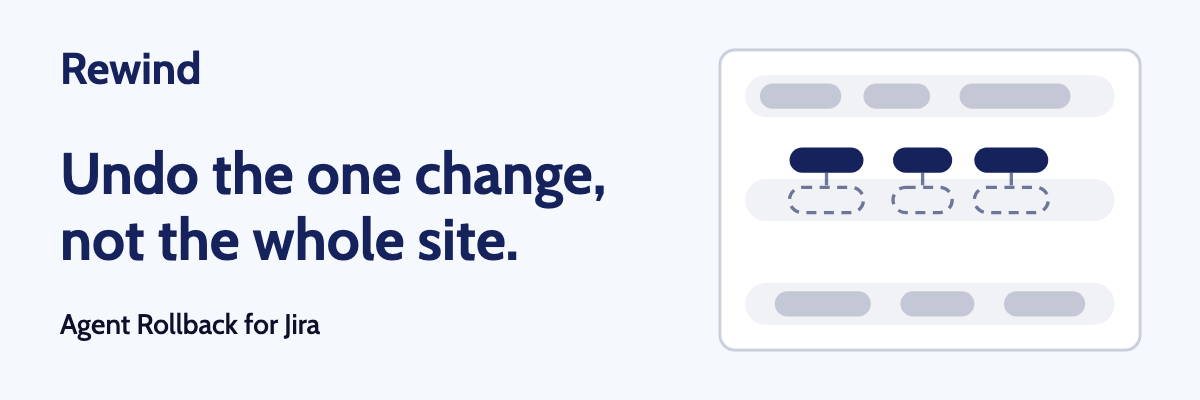
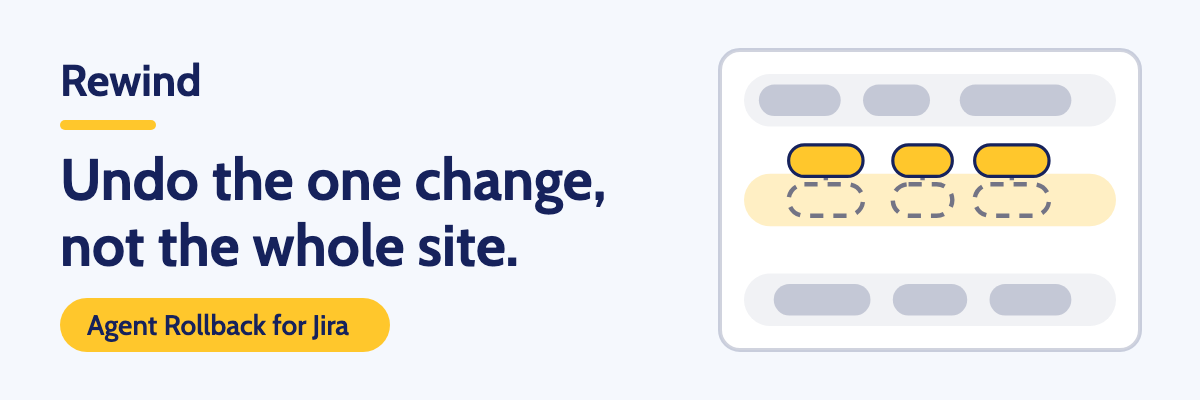
Re-render visuals in Rewind yellow and navy with customer-word headlines
- brand.md: primary is a warm yellow (hex unconfirmed), secondary dark navy
- Yellow is the accent in every visual; navy carries the type
- LinkedIn headline now "Undo one agent's changes, not the whole site." (no internal term "actor")
- Design rule: headlines use the customer's words
- Reviewer re-check of all four visuals appended to 11-review.md

diff --git a/outputs/agent-rollback-jira/08-design-briefs.md b/outputs/agent-rollback-jira/08-design-briefs.md
@@ -3,13 +3,18 @@
 **Produced for this tier:** email header, in-app banner, LinkedIn image, one-pager layout.
 **Deliberately skipped:** blog hero image (Tier 1 only).
 **Source copy:** 07-channel-copy.md, section "On-image text". Text is copied unchanged, nothing cut or added.
-**Style note:** Brand from `context/brand.md`. Wordmark set in type, not the official logo file. [NEED PROOF: confirm brand palette and typeface with Rewind's brand team] The Boomerang yellow is not used because its hex is unknown. No visual leaves the team until the brand team confirms.
+**Style note:** Brand from `context/brand.md`. Wordmark set in type, not the official logo file. [NEED PROOF: confirm brand palette and typeface with Rewind's brand team] [NEED PROOF: confirm Boomerang yellow hex and navy with Rewind's brand team] No visual leaves the team until the brand team confirms.
 
-**Shared visual idea (all four):** a white schematic card with three lanes. The middle lane is the one actor. Its solid Blue Zodiac blocks lift out of the lane, leaving dashed outlines in place. The other lanes, in 20% tints of Blue Zodiac, stay untouched. No text, counts or ticket numbers inside the card. The actor is neutral, not a villain.
+**Palette used:** Boomerang Yellow #FFC72C (primary, UNCONFIRMED), Blue Zodiac #16225C (secondary, navy), Link Water #F5F8FD (canvas), Ebony #0E102B (body text), White #FFFFFF (cards). Tints of navy and yellow for schematic shapes only.
+**Accent rule applied:** yellow is the accent in all four visuals: the lifted blocks, the highlight bar under the wordmark, the middle lane tint, and the supporting-line pill or bar. Navy carries the headline and the "Rewind" wordmark on the light canvas. No text is set in yellow. Text on yellow fills is navy.
+
+**Shared visual idea (all four):** a white schematic card with three lanes. The middle lane is one agent or rule (a neutral actor among others). Its yellow blocks, outlined in navy, lift out of a pale yellow lane and leave dashed outlines in place. The other two lanes, in navy tints, stay untouched. No text, counts or ticket numbers inside the card. Nothing frames the agent as a villain.
+
+**Internal-term check on all on-image text:** no internal terms found ("actor", "blast radius", "selective rollback" do not appear). The LinkedIn headline now says "agent's changes". "Agent Rollback for Jira" is the product name and is kept as written in 07. Note for the copy owner: 07's email preview line still says "Undo one actor's changes", and the email body and release note use "actor". These are not on-image, so I did not change them, but they are internal terms in customer copy.
 
 **Font:** Cabin loaded through a Google Fonts `@import` in each SVG, with the brand fallback stack. Confirmed by viewing every PNG: the glyphs are Cabin, not the fallback. The SVG needs internet access to show Cabin when opened elsewhere. The PNGs are fixed.
 
-**Tool for all four:** headless Google Chrome, 1x scale.
+**Tool for all four:** headless Google Chrome, 1x scale. All four PNGs viewed after the final render.
 
 ## Email header
 **Size:** 1200 x 400 px
@@ -19,17 +24,17 @@
 > Undo the one change, not the whole site.
 > Agent Rollback for Jira
 
-**Layout:** wordmark top left (44 px); headline two lines at 58 px, left; supporting line 28 px below; schematic card right (420 x 300).
+**Layout:** wordmark top left (44 px) with a short yellow bar below; headline two lines at 58 px; yellow pill with the supporting line (28 px, navy text) below; schematic card right (420 x 300).
 **Visual direction:** Link Water canvas, one idea, generous space. Legible at half size (headline reads about 29 px).
-**Brand applied:** #F5F8FD canvas, #16225C wordmark and headline, #0E102B supporting line, #FFFFFF card, Blue Zodiac tints for shapes. Cabin 700 headline and wordmark, Cabin 500 supporting line. Wordmark set in type, not the official logo file.
-**Avoid:** limitations, plan names, "only" claims, alarms, robots, any vendor logo, the Boomerang mark.
+**Brand applied:** #F5F8FD canvas, #16225C wordmark and headline, #FFC72C accent (bar, pill, lifted blocks, lane tint at 28%), #16225C text on the yellow pill, #FFFFFF card, navy tints for other shapes. Cabin 700 headline and wordmark, Cabin 600 pill text. Wordmark set in type, not the official logo file.
+**Avoid:** limitations, plan names, "only" claims, alarms, robots, any vendor logo, the Boomerang mark, yellow text.
 **Does not claim:** Jira Cloud only, changes after the first backup, issues and fields only, the attachment limit, plan tier. These stay in the email.
 
 **Prompt (paste into Claude Design or Canva):**
 ```
-Email header, 1200 x 400 px. Light background #F5F8FD. Top left, the word "Rewind" as live text in Cabin 700, #16225C, 44 px, with clear space. Not a logo. Headline in two lines, Cabin 700, #16225C, 58 px: "Undo the one change, not the whole site." Below it, Cabin 500, #0E102B, 28 px: "Agent Rollback for Jira". Right side: a white rounded card with three horizontal lanes. Outer lanes hold pale blocks (#16225C at 20%). The middle lane's three blocks are solid #16225C and lifted above the lane, joined by thin lines to dashed outlines left in place. No text in the card. No other text, no logos, no robots, no alarms, no yellow.
+Email header, 1200 x 400 px. Light background #F5F8FD. Top left, the word "Rewind" as live text in Cabin 700, #16225C, 44 px, with clear space. Not a logo. Under it a short rounded bar in #FFC72C. Headline in two lines, Cabin 700, #16225C, 58 px: "Undo the one change, not the whole site." Below it a #FFC72C pill with text in Cabin 600, #16225C, 28 px: "Agent Rollback for Jira". Right side: a white rounded card with three horizontal lanes. Outer lanes hold pale blocks (#16225C at 20%). The middle lane is a pale #FFC72C tint; its three blocks are solid #FFC72C with a thin #16225C outline, lifted above the lane and joined by thin lines to dashed outlines left in place. No text in the card. No other text, no logos, no robots, no alarms, no yellow text.
 ```
-**Render:** `visuals/email-header.svg`, `visuals/email-header.png` | Tool: headless Chrome | Size check: 1200 x 400, match yes | Visual check: Cabin renders, nothing clipped or overlapping, margins at least 60 px.
+**Render:** `visuals/email-header.svg`, `visuals/email-header.png` | Tool: headless Chrome | Size check: 1200 x 400, match yes | Visual check: Cabin renders, nothing clipped or overlapping, margins at least 60 px, navy on yellow and navy on Link Water pass contrast.
 
 ---
 
@@ -41,17 +46,17 @@ Email header, 1200 x 400 px. Light background #F5F8FD. Top left, the word "Rewin
 > Undo what one rule or AI agent changed.
 > See the effect first.
 
-**Layout:** wordmark top left (40 px); headline two lines at 50 px; supporting line 26 px; schematic card right (420 x 260).
-**Visual direction:** same schematic, headline only, calm and compact.
-**Brand applied:** #F5F8FD canvas, #16225C wordmark and headline, #0E102B supporting line, #FFFFFF card, tints of #16225C. Cabin 700 / 500. Wordmark set in type, not the official logo file.
-**Avoid:** limitations, attachment note, plan tier, alarms, robots, vendor logos, the Boomerang mark.
+**Layout:** wordmark top left (40 px) with a short yellow bar; headline two lines at 50 px; yellow pill with the supporting line (26 px) below; schematic card right (420 x 260).
+**Visual direction:** same schematic, compact and calm. The pill sits where a button would, but it is text from 07, not a button label.
+**Brand applied:** #F5F8FD canvas, #16225C wordmark, headline and pill text, #FFC72C accent, #FFFFFF card, navy tints. Cabin 700 / 600. Wordmark set in type, not the official logo file.
+**Avoid:** limitations, attachment note, plan tier, alarms, robots, vendor logos, the Boomerang mark, yellow text.
 **Does not claim:** the Jira Cloud, first-backup, 24-hour attachment and plan-tier limits in the in-app body copy.
 
 **Prompt (paste into Claude Design or Canva):**
 ```
-In-app banner, 1280 x 320 px. Background #F5F8FD. Top left, "Rewind" as live text, Cabin 700, #16225C, 40 px. Headline, two lines, Cabin 700, #16225C, 50 px: "Undo what one rule or AI agent changed." Below, Cabin 500, #0E102B, 26 px: "See the effect first." Right: white rounded card with three lanes; outer lanes pale blocks (#16225C at 20%); middle lane's solid #16225C blocks lifted out, dashed outlines left behind. No text in the card. No other text or logos.
+In-app banner, 1280 x 320 px. Background #F5F8FD. Top left, "Rewind" as live text, Cabin 700, #16225C, 40 px. Short rounded bar under it in #FFC72C. Headline, two lines, Cabin 700, #16225C, 50 px: "Undo what one rule or AI agent changed." Below, a #FFC72C pill with Cabin 600, #16225C, 26 px text: "See the effect first." Right: white rounded card with three lanes; outer lanes pale blocks (#16225C at 20%); middle lane a pale #FFC72C tint whose solid #FFC72C blocks (thin #16225C outline) lift out, dashed outlines left behind. No text in the card. No other text or logos.
 ```
-**Render:** `visuals/in-app-banner.svg`, `visuals/in-app-banner.png` | Tool: headless Chrome | Size check: 1280 x 320, match yes | Visual check: Cabin renders, nothing clipped.
+**Render:** `visuals/in-app-banner.svg`, `visuals/in-app-banner.png` | Tool: headless Chrome | Size check: 1280 x 320, match yes | Visual check: Cabin renders, nothing clipped, pill clear of headline descenders.
 
 ---
 
@@ -60,40 +65,40 @@ In-app banner, 1280 x 320 px. Background #F5F8FD. Top left, "Rewind" as live tex
 **Used with:** LinkedIn post (the post carries the limits)
 **On-image text** (17 words, from 07 "LinkedIn image"):
 > Rewind
-> Undo the one actor, not the whole site.
+> Undo one agent's changes, not the whole site.
 > See what will change back before you restore.
 
-**Layout:** 60 px safe margin. Wordmark top left (44 px); headline two lines at 64 px; supporting line two lines at 30 px; schematic card right (420 x 400).
+**Layout:** 60 px safe margin. Wordmark top left (44 px) with a yellow bar; headline three lines at 62 px; supporting line two lines at 30 px with a yellow vertical bar to its left; schematic card right (420 x 400).
 **Visual direction:** same schematic, larger card. Does not repeat the post text.
-**Brand applied:** #F5F8FD, #16225C, #0E102B, #FFFFFF, tints of #16225C. Cabin 700 / 500. Wordmark set in type, not the official logo file.
-**Avoid:** limitations, disclaimers, plan names, alarms, robots, people at screens, vendor logos, the Boomerang mark.
+**Brand applied:** #F5F8FD canvas, #16225C wordmark and headline, #0E102B supporting line, #FFC72C accent, #FFFFFF card, navy tints. Cabin 700 / 500. Wordmark set in type, not the official logo file.
+**Avoid:** limitations, disclaimers, plan names, alarms, robots, people at screens, vendor logos, the Boomerang mark, yellow text.
 **Does not claim:** Jira Cloud, first-backup, issues and fields, attachment 24-hour and plan-tier limits stated in the post.
 
 **Prompt (paste into Claude Design or Canva):**
 ```
-LinkedIn image, 1200 x 627 px, 60 px safe margin. Background #F5F8FD. Top left "Rewind" as live text, Cabin 700, #16225C, 44 px. Headline, two lines, Cabin 700, #16225C, 64 px: "Undo the one actor, not the whole site." Supporting line, Cabin 500, #0E102B, 30 px: "See what will change back before you restore." Right: white rounded card, three lanes, outer lanes pale (#16225C at 20%), middle lane's solid #16225C blocks lifted out with dashed outlines left behind. No text in the card, no other text, no logos.
+LinkedIn image, 1200 x 627 px, 60 px safe margin. Background #F5F8FD. Top left "Rewind" as live text, Cabin 700, #16225C, 44 px, with a short #FFC72C bar below. Headline, three lines, Cabin 700, #16225C, 62 px: "Undo one agent's changes, not the whole site." Supporting line, Cabin 500, #0E102B, 30 px, with a #FFC72C vertical bar to its left: "See what will change back before you restore." Right: white rounded card, three lanes, outer lanes pale (#16225C at 20%), middle lane a pale #FFC72C tint with solid #FFC72C blocks (thin #16225C outline) lifted out and dashed outlines left behind. No text in the card, no other text, no logos.
 ```
-**Render:** `visuals/linkedin-image.svg`, `visuals/linkedin-image.png` | Tool: headless Chrome | Size check: 1200 x 627, match yes | Visual check: Cabin renders, inside safe margin, nothing clipped.
+**Render:** `visuals/linkedin-image.svg`, `visuals/linkedin-image.png` | Tool: headless Chrome | Size check: 1200 x 627, match yes | Visual check: Cabin renders, apostrophe renders, inside safe margin, nothing clipped.
 
 ---
 
 ## One-pager layout
 **Size:** 2550 x 3300 px
 **Used with:** One-pager in 09-sales-enablement.md
-**On-image text** (about 29 words including the wordmark, from 07 "One-pager layout"):
+**On-image text** (28 words including the wordmark, from 07 "One-pager layout"):
 > Rewind
 > Undo what one rule or AI agent changed.
 > See what changes back first.
 > Jira Cloud. Changes after your first Rewind backup. Issues and fields. Specific plan tier.
 
-**Layout:** wordmark top left (84 px); headline two lines at 150 px; supporting line 64 px; wide schematic card (2250 x 620); four empty white body blocks in a 2 x 2 grid, each with one short tint bar and no text, to be filled from 09; thin rule and one small limits line (40 px) in the footer.
+**Layout:** wordmark top left (84 px) with a yellow bar; headline two lines at 150 px; yellow pill with the supporting line (64 px); wide schematic card (2250 x 620); four empty white body blocks in a 2 x 2 grid, each with one short yellow bar and no text, to be filled from 09; yellow footer rule and one small limits line (40 px).
 **Visual direction:** structure over decoration. The empty blocks stay empty.
-**Brand applied:** #F5F8FD, #16225C, #0E102B, #FFFFFF, tints of #16225C. Cabin 700 / 500 / 400. Wordmark set in type, not the official logo file.
-**Avoid:** extra text, lorem ipsum, beta numbers, quotes, customer names, alarms, robots, vendor logos, the Boomerang mark.
+**Brand applied:** #F5F8FD canvas, #16225C wordmark and headline and pill text, #0E102B limits line, #FFC72C accent, #FFFFFF cards, navy tints. Cabin 700 / 600 / 400. Wordmark set in type, not the official logo file.
+**Avoid:** extra text, lorem ipsum, beta numbers, quotes, customer names, alarms, robots, vendor logos, the Boomerang mark, yellow text.
 **Does not claim:** the attachment limit does not fit the one small line. It must be carried in the body blocks from 09. The image must not imply attachments are covered without it. [NEED PROOF: plain wording for the attachment limitation, including the 24-hour phrase]
 
 **Prompt (paste into Claude Design or Canva):**
 ```
-One-pager layout, US Letter 2550 x 3300 px. Background #F5F8FD. Top left "Rewind" as live text, Cabin 700, #16225C, 84 px. Headline, two lines, Cabin 700, #16225C, 150 px: "Undo what one rule or AI agent changed." Subhead Cabin 500, #0E102B, 64 px: "See what changes back first." Wide white card with the lifted-lane schematic (outer lanes #16225C at 20%, middle lane solid #16225C blocks lifted out, dashed outlines left behind), no text. Below, four empty white rounded blocks in a 2 x 2 grid with a thin outline, no text. Footer rule and one small line, Cabin 400, #0E102B, 40 px: "Jira Cloud. Changes after your first Rewind backup. Issues and fields. Specific plan tier." Nothing else.
+One-pager layout, US Letter 2550 x 3300 px. Background #F5F8FD. Top left "Rewind" as live text, Cabin 700, #16225C, 84 px, with a short #FFC72C bar below. Headline, two lines, Cabin 700, #16225C, 150 px: "Undo what one rule or AI agent changed." Subhead on a #FFC72C pill, Cabin 600, #16225C, 64 px: "See what changes back first." Wide white card with the lifted-lane schematic (outer lanes #16225C at 20%, middle lane a pale #FFC72C tint with solid #FFC72C blocks, thin #16225C outline, lifted out, dashed outlines left behind), no text. Below, four empty white rounded blocks in a 2 x 2 grid with a thin outline and a short #FFC72C bar at top left, no text. Footer: a #FFC72C rule and one small line, Cabin 400, #0E102B, 40 px: "Jira Cloud. Changes after your first Rewind backup. Issues and fields. Specific plan tier." Nothing else.
 ```
-**Render:** `visuals/one-pager-layout.svg`, `visuals/one-pager-layout.png` | Tool: headless Chrome | Size check: 2550 x 3300, match yes | Visual check: Cabin renders, lifted blocks no longer touch the top lane after one fix, nothing clipped.
+**Render:** `visuals/one-pager-layout.svg`, `visuals/one-pager-layout.png` | Tool: headless Chrome | Size check: 2550 x 3300, match yes | Visual check: Cabin renders, lifted blocks clear of the top lane, nothing clipped, body blocks empty.

diff --git a/context/brand.md b/context/brand.md
@@ -1,6 +1,6 @@
 # Brand: Rewind
 
-> Source and date: compiled 2026-10-16 from rewind.com and a third-party brand listing. See "Sources and confidence" below. The hex codes and typeface in this file are NOT confirmed by Rewind. Confirm them with Rewind's brand team before any visual goes outside the team.
+> Source and date: compiled 2026-10-16 from rewind.com and a third-party brand listing. Updated 2026-10-16 on the user's direction: primary brand colour is a warm yellow (as in the Boomerang logo), secondary is dark navy. See "Sources and confidence" below. The hex codes and typeface in this file are NOT confirmed by Rewind. Confirm them with Rewind's brand team before any visual goes outside the team.
 
 ## Sources and confidence
 | Item | Source | Confidence |
@@ -13,19 +13,21 @@
 Why the gap: rewind.com blocks scripted page readers (HTTP 403), and its `/brand/` page asks for a login (HTTP 401). Neither was worked around. Replace the low-confidence rows when someone with access pastes the real brand guide.
 
 ## Colours
-Use these as the Rewind palette until confirmed.
+Rewind's primary brand colour is a warm yellow, as in the Boomerang logo. Dark navy is the secondary. Use these as the Rewind palette until confirmed.
 
 | Role | Name | Hex | Use |
 |---|---|---|---|
-| Primary | Blue Zodiac | `#16225C` | Headlines, wordmark on light backgrounds, main accent shapes, buttons |
-| Secondary (light) | Link Water | `#F5F8FD` | Page and canvas backgrounds, light cards |
-| Secondary (dark) | Ebony | `#0E102B` | Body text, dark backgrounds, wordmark on dark if white is not used |
+| Primary | Boomerang Yellow | `#FFC72C` (UNCONFIRMED) | The accent in every visual: highlight bars, the lifted blocks, buttons, key shapes. Never body text on a light background. |
+| Secondary | Blue Zodiac (dark navy) | `#16225C` | Headlines, wordmark on light backgrounds, dark panels |
+| Neutral (light) | Link Water | `#F5F8FD` | Page and canvas backgrounds, light cards |
+| Neutral (dark) | Ebony | `#0E102B` | Body text, dark backgrounds |
 | Neutral | White | `#FFFFFF` | Wordmark on dark backgrounds, card fill |
 
 Rules:
-- No colour outside this table, except tints of Blue Zodiac for schematic shapes (for example 20% and 60% opacity).
-- The Boomerang mark is yellow, but its hex code is not available. Do not use yellow as a fill colour until it is confirmed `[NEED PROOF: Boomerang yellow hex]`.
-- Check contrast. Blue Zodiac on Link Water and white on Blue Zodiac both pass for headline sizes.
+- Yellow is the accent in every visual. Navy carries the type.
+- The yellow hex is a placeholder for "a warm yellow". Rewind's exact value was not available: `[NEED PROOF: confirm Boomerang yellow hex with Rewind's brand team]`. The navy and neutrals come from a third-party listing and are also unconfirmed.
+- No colour outside this table, except tints of navy or yellow for schematic shapes (for example 20% and 60% opacity).
+- Contrast: yellow on white or Link Water fails for text. Put text in navy or Ebony. Text on a yellow fill is navy or Ebony. Navy on Link Water and white on navy both pass for headline sizes.
 
 ## Typeface
 - **Cabin** (free, Google Fonts). Weights 400, 500, 600, 700. Unconfirmed, see above.
@@ -36,14 +38,14 @@ Rules:
 ## Wordmark
 - Rewind's logo file is not downloaded or embedded. Never draw or trace the logo or the Boomerang mark.
 - Where a visual needs the brand, set the word **Rewind** as live text in Cabin 700, in sentence case (capital R, rest lower case). No outline, shadow, gradient or effect.
-- Colour: Blue Zodiac `#16225C` on light backgrounds. White `#FFFFFF` on Blue Zodiac or Ebony. These mirror Rewind's approved logo colourways (full colour dark, full colour white). Do not use other colours.
+- Colour: navy (Blue Zodiac `#16225C`) on light backgrounds. White `#FFFFFF` on navy or Ebony. These mirror Rewind's approved logo colourways (full colour dark, full colour white). Do not set the wordmark in yellow text on a light background.
 - Placement: top left, with the safe margin around it. Clear space of at least the height of the letter "R" on every side.
 - Size: the cap height must stay legible. Rewind's guidance sets a floor of 32 px for the full logo. Keep the wordmark text at least 32 px tall at the final pixel size of the visual.
 - It is a stand-in set in type, not the logo. The brief must say so: "Wordmark set in type, not the official logo file."
 
 ## Visual style
 - Calm, trustworthy, enterprise. Rewind's site reads serious and reliable: structured sections, integration grids, a comparison table, compliance badges, plain statements of what the product does. It sells recoverability, not alarm.
-- Light, clean layouts. Link Water or white background, Blue Zodiac as the single strong accent, Ebony for text. Generous white space.
+- Light, clean layouts. Link Water or white background, yellow as the accent, navy for headlines, Ebony for body text. Generous white space.
 - Structure over decoration: grids, tables, cards and simple schematics. One idea per image.
 - Typography carries the design. Headline clearly largest, Cabin throughout.
 - No stock photos of people at screens, no sci-fi AI imagery, no red alarms or warning symbols (see `context/voice.md`).

diff --git a/outputs/agent-rollback-jira/11-review.md b/outputs/agent-rollback-jira/11-review.md
@@ -136,3 +136,46 @@ Scope: 09, 09b and 09c only, after one revision pass. Checked with Grep and a ma
 5. New, minor: 09 FAQ "Does it go back before we started with Rewind?" says "Two closed beta accounts did not get this at first (mock, internal)". It is labelled internal and the page bans repeating beta figures, so it is not a fail. Safer to delete "Two closed beta accounts did not get this at first" and keep "so say it early".
 
 No asset in this pass needs a human beyond the open [NEED PROOF] items already collected above.
+
+## Visuals revision review
+Scope: 08-design-briefs.md and the four visuals (email header, in-app banner, LinkedIn image, one-pager layout), after the brand update (yellow #FFC72C unconfirmed, navy #16225C). Checked with Grep on the SVGs and brief, and by opening all four PNGs. Word counts done by hand.
+
+### Mechanical checks
+- Em dashes, en dashes, exclamation marks in 08 and the four SVGs: 0 found.
+- Internal terms ("actor", "blast radius", "selective rollback", "Actor view") in any SVG: 0 found. They appear in 08 only in the internal-term check note, not on any image.
+- Colours in all four SVGs: only #F5F8FD, #16225C, #FFC72C, #FFFFFF, #0E102B, plus opacity tints of navy and yellow. No other hex.
+- Text in yellow: none. Every `<text>` fill is #16225C or #0E102B. Yellow is used only for bars, pills, lane tint and lifted blocks.
+- Embedded images, paths or logo files in the SVGs: none. "Rewind" is a `<text>` element in Cabin 700, navy, top left. No Boomerang mark.
+- Font: each SVG imports Cabin from Google Fonts. In the PNGs the glyphs are Cabin (the single-storey "a" shapes, the "g" and "y" forms), not Helvetica or Arial.
+- Pixel sizes: I could not run sips in this session (no shell tool). The images opened at 1200 x 400, 1280 x 320 and 1200 x 627 with coordinates matching the SVG viewBoxes, and the one-pager opened as 2550 x 3300. The brief states a match for all four. Treat as passed on the evidence, and re-run `sips -g pixelWidth -g pixelHeight` on the four PNGs if you want it on record.
+
+### On-image text and word counts (matched word for word to 07 "On-image text")
+| Visual | Text in SVG | Words | Matches 07 |
+|---|---|---|---|
+| Email header | Rewind / Undo the one change, not the whole site. / Agent Rollback for Jira | 1 + 8 + 4 = 13 | Yes |
+| In-app banner | Rewind / Undo what one rule or AI agent changed. / See the effect first. | 1 + 8 + 4 = 13 | Yes |
+| LinkedIn image | Rewind / Undo one agent's changes, not the whole site. / See what will change back before you restore. | 1 + 8 + 8 = 17 | Yes (curly apostrophe only) |
+| One-pager | Rewind / Undo what one rule or AI agent changed. / See what changes back first. / Jira Cloud. Changes after your first Rewind backup. Issues and fields. Specific plan tier. | 1 + 8 + 5 + 14 = 28 | Yes |
+
+All under 30. The LinkedIn headline is exactly "Undo one agent's changes, not the whole site."
+
+### Result per visual
+| Visual | Colour and accent | Cabin and wordmark | Customer words | Limits rule | Size, clipping | Result |
+|---|---|---|---|---|---|---|
+| Email header | Pass | Pass | Pass | Pass (no limits or plan text) | Pass | **Pass** |
+| In-app banner | Pass | Pass | Pass | Pass | Pass | **Pass** |
+| LinkedIn image | Pass | Pass | Pass | Pass | Pass | **Pass** |
+| One-pager layout | Pass | Pass | Pass | Pass (one small limits line only, body blocks empty) | Pass | **Pass** |
+
+Contrast: navy on Link Water and navy on yellow are readable in all four. The small limits line (Ebony, 40 px at 2550 wide) is legible. Nothing is clipped or overlapping. Lifted blocks clear the top lane in every card.
+
+### 08-design-briefs.md
+Pass. It carries [NEED PROOF: confirm brand palette and typeface with Rewind's brand team], [NEED PROOF: confirm Boomerang yellow hex and navy with Rewind's brand team], and the attachment-wording tag. It says "Wordmark set in type, not the official logo file" in the style note and in each asset. It has no beta numbers or quotes and says the limits stay in the copy.
+
+### Advisory items (non-blocking)
+1. In-app banner: the pill starts about 8 px below the descender of "agent" on the second headline line. It is clear but tight. If the banner is touched again, add 6 to 10 px between headline and pill.
+2. 07 still uses internal terms in customer copy, as 08 notes: the email preview ("Undo one actor's changes in Jira Cloud...") and "actor" in the email body, release note and LinkedIn post. They are not on any image. The copywriter should swap "actor" for "agent, rule or integration" where it reads as customer copy.
+3. The 08 one-pager "Does not claim" line is correct: the attachment limit is not on the one-pager's small line and must be carried by the body blocks filled from 09.
+4. Palette, typeface and yellow hex stay unconfirmed. No visual leaves the team until the brand team confirms.
+
+No visual needs a revision. No fixes required.

diff --git a/.claude/skills/design-brief/SKILL.md b/.claude/skills/design-brief/SKILL.md
@@ -25,13 +25,14 @@ description: Write a design brief for each visual a launch tier needs, then rend
 
 ## Style
 Follow `context/brand.md`. In every visual:
-- **Colours:** only the hex codes in `context/brand.md` (primary Blue Zodiac, secondaries Link Water and Ebony, white), plus tints of the primary for schematic shapes.
+- **Colours:** only the hex codes in `context/brand.md` (primary warm yellow, secondary dark navy, plus the light and dark neutrals and white), and tints of those for schematic shapes. Yellow is the accent in every visual. Navy carries the type. Do not set text in yellow on a light background.
 - **Typeface:** Cabin, from `context/brand.md`, with its fallback stack. Embed or load the font in the SVG so the PNG renders in Cabin. Check the PNG.
+- **Headlines use the customer's words**, never internal terms such as "actor", "blast radius" or "selective rollback". Say "agent", "rule", "integration", "changes", "the whole site". If the on-image text in `07-channel-copy.md` uses an internal term, flag it in the brief and ask for a fix; do not rewrite it yourself.
 - **Wordmark:** the word "Rewind" set as live text in Cabin 700, in the brand colour for the background (Blue Zodiac on light, white on dark), top left, with clear space. Do not download or embed Rewind's logo file, and do not draw the logo or the Boomerang mark. Say in the brief: "Wordmark set in type, not the official logo file."
 - **Style:** calm, trustworthy, enterprise. Light background, generous space, one idea per image, strong type hierarchy (headline clearly largest).
 - Show the mechanism, not the fear: one actor's changes lift out of a timeline while everyone else's work stays in place. Use abstract shapes and schematic cards with no real-looking text, counts or ticket numbers.
 - The AI agent is one neutral actor among others, never a villain.
-- The palette and typeface are unconfirmed. Add `[NEED PROOF: confirm brand palette and typeface with Rewind's brand team]` to the brief. Do not use the Boomerang yellow until `context/brand.md` gives its hex.
+- The palette and typeface are unconfirmed. Add `[NEED PROOF: confirm brand palette and typeface with Rewind's brand team]` to the brief. The yellow hex in `context/brand.md` is marked unconfirmed. Carry that flag into the brief.
 
 ## What to avoid
 - Red alarms, warning triangles, skulls, glitch effects, anything that sells fear.

diff --git a/outputs/agent-rollback-jira/07-channel-copy.md b/outputs/agent-rollback-jira/07-channel-copy.md
@@ -89,7 +89,7 @@ Written to be rendered unchanged. Counts include the wordmark "Rewind". The emai
 
 ### LinkedIn image (17 words)
 - Wordmark: Rewind
-- Headline: Undo the one actor, not the whole site.
+- Headline: Undo one agent's changes, not the whole site.
 - Supporting line: See what will change back before you restore.
 
 ### One-pager layout (28 words)
@@ -104,4 +104,4 @@ Written to be rendered unchanged. Counts include the wordmark "Rewind". The emai
 - The next step is the release note because how a customer turns the feature on is unknown. [NEED PROOF: how a customer turns the feature on, and whether it needs setup]
 - The Confluence roadmap line is left out of every asset. It needs Legal sign-off and none of these assets mention Confluence.
 - "Exportable for auditors" is not used. Copy says "can be exported".
-- Brand hex codes and typeface are unconfirmed, so no visual leaves the team yet. [NEED PROOF: confirm brand hex codes and typeface]
+- Brand hex codes (including the yellow) and typeface are unconfirmed, so no visual leaves the team yet. [NEED PROOF: confirm brand hex codes and typeface]

diff --git a/.claude/agents/design-director-agent.md b/.claude/agents/design-director-agent.md
@@ -16,6 +16,7 @@ Follow `.claude/skills/design-brief/SKILL.md`.
 
 ## Rules
 - On-image text is copied word for word from `07-channel-copy.md`. You may cut, never rewrite or add. Under 30 words per visual.
+- Headlines use the customer's words, never internal terms such as "actor". Flag any you find in the on-image text.
 - Use `context/brand.md` in every visual: its colours (hex), its typeface, its visual style, and the Rewind wordmark set as live text in the brand typeface and colour. Do not download, trace, embed or draw Rewind's logo file or the Boomerang mark. The wordmark is type, and the brief says so.
 - The palette and typeface in `context/brand.md` are unconfirmed. Use them, and carry its `[NEED PROOF: ...]` flags into the brief.
 - Limitations and disclaimers never appear on email header, in-app banner or LinkedIn images. They belong in the accompanying copy. Only the one-pager layout may carry one small limits line.
